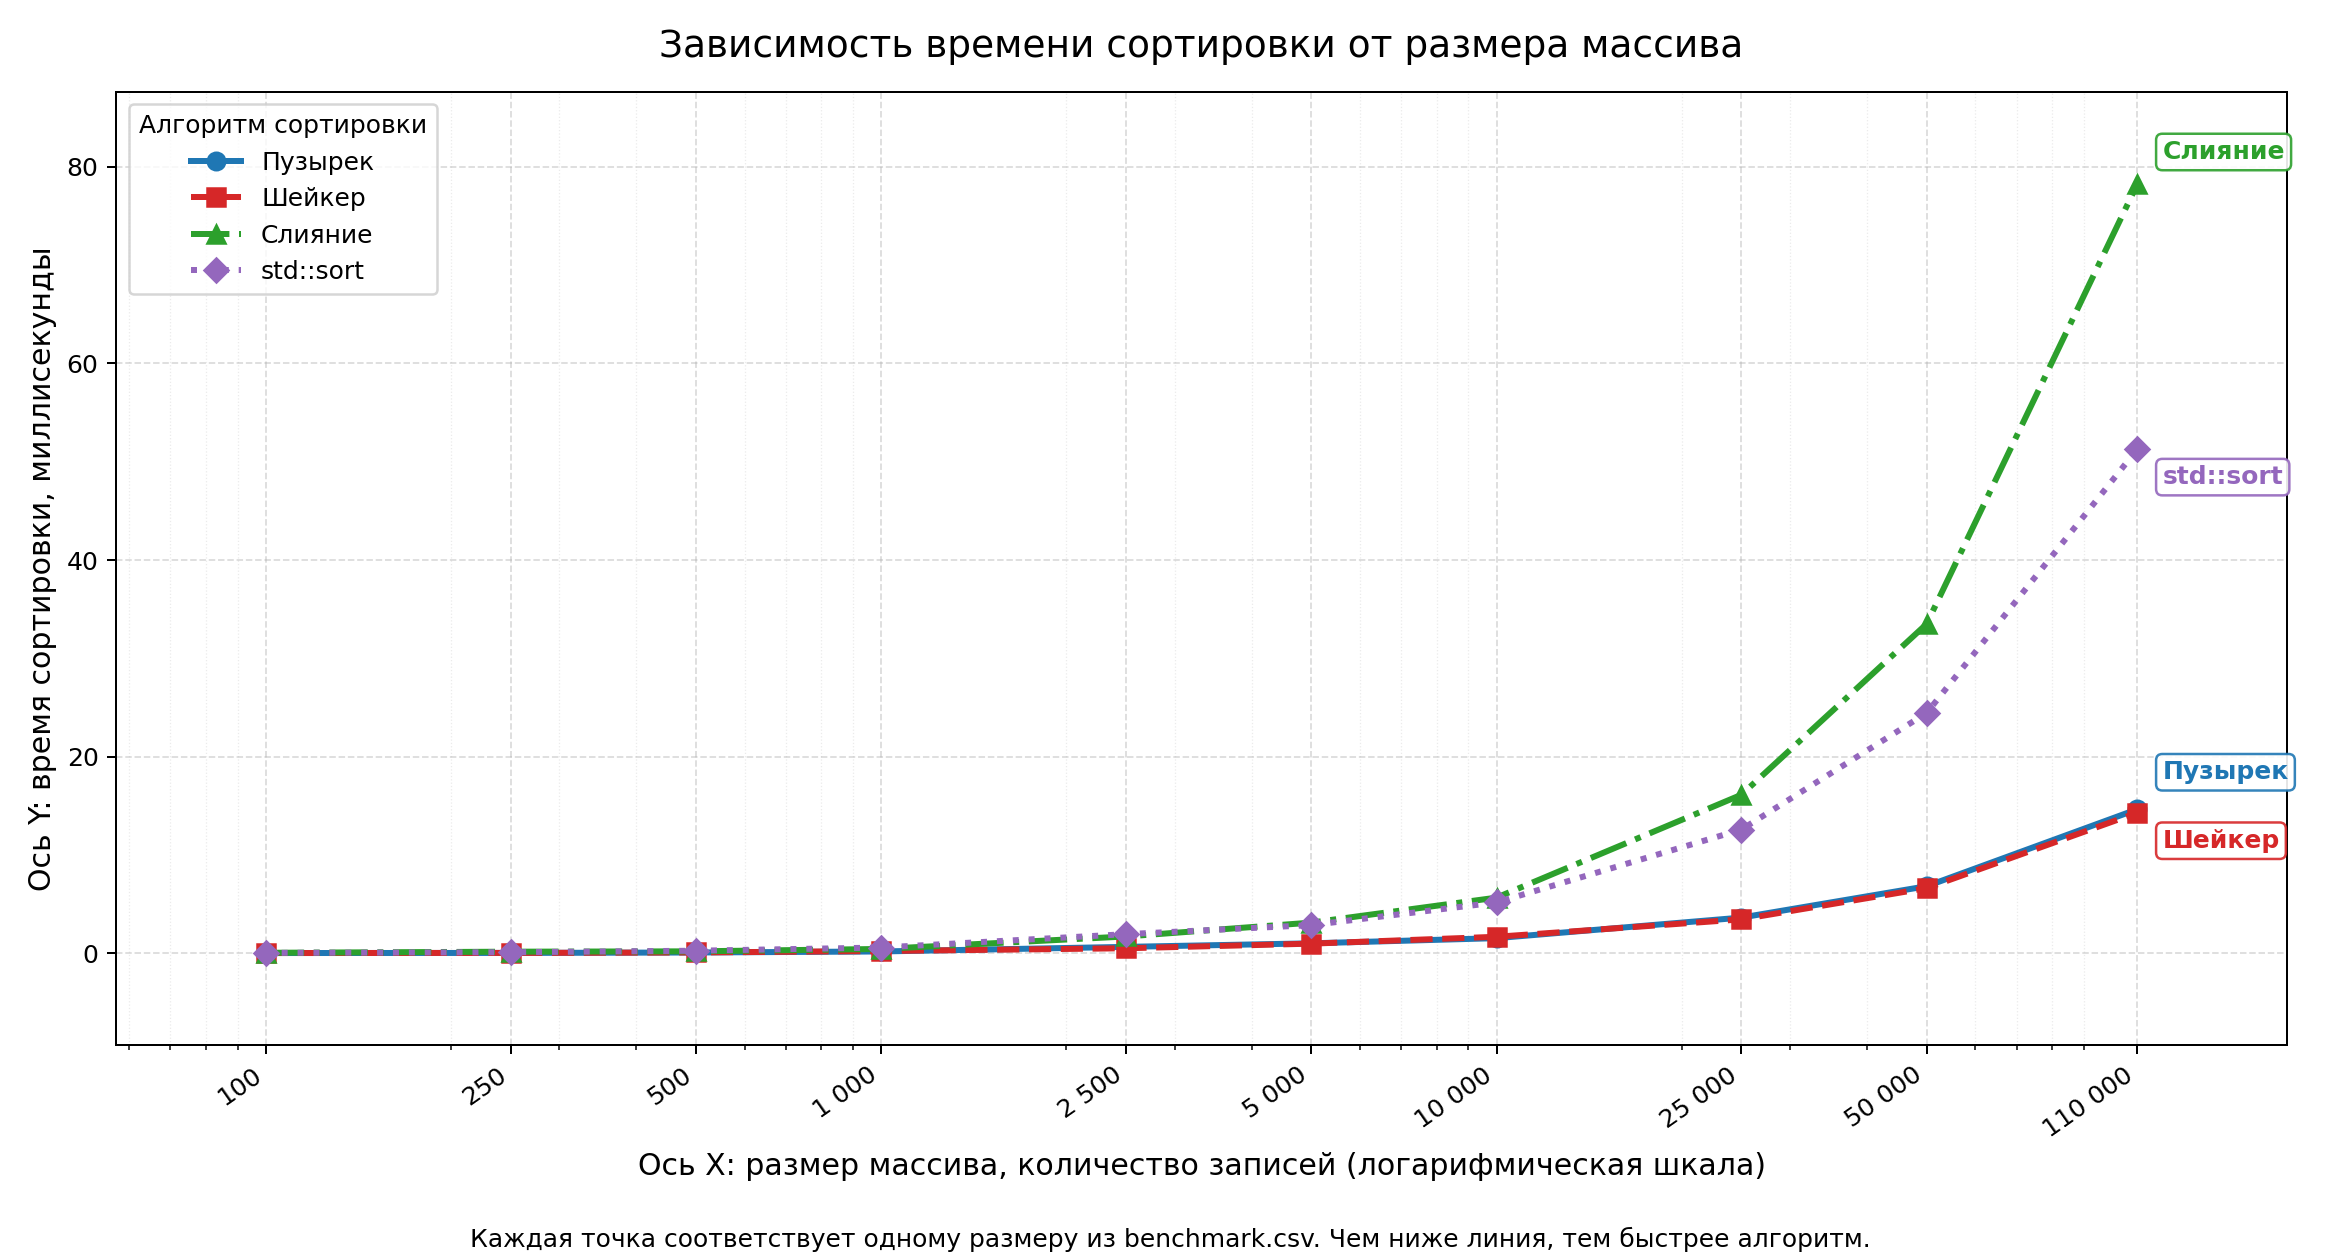
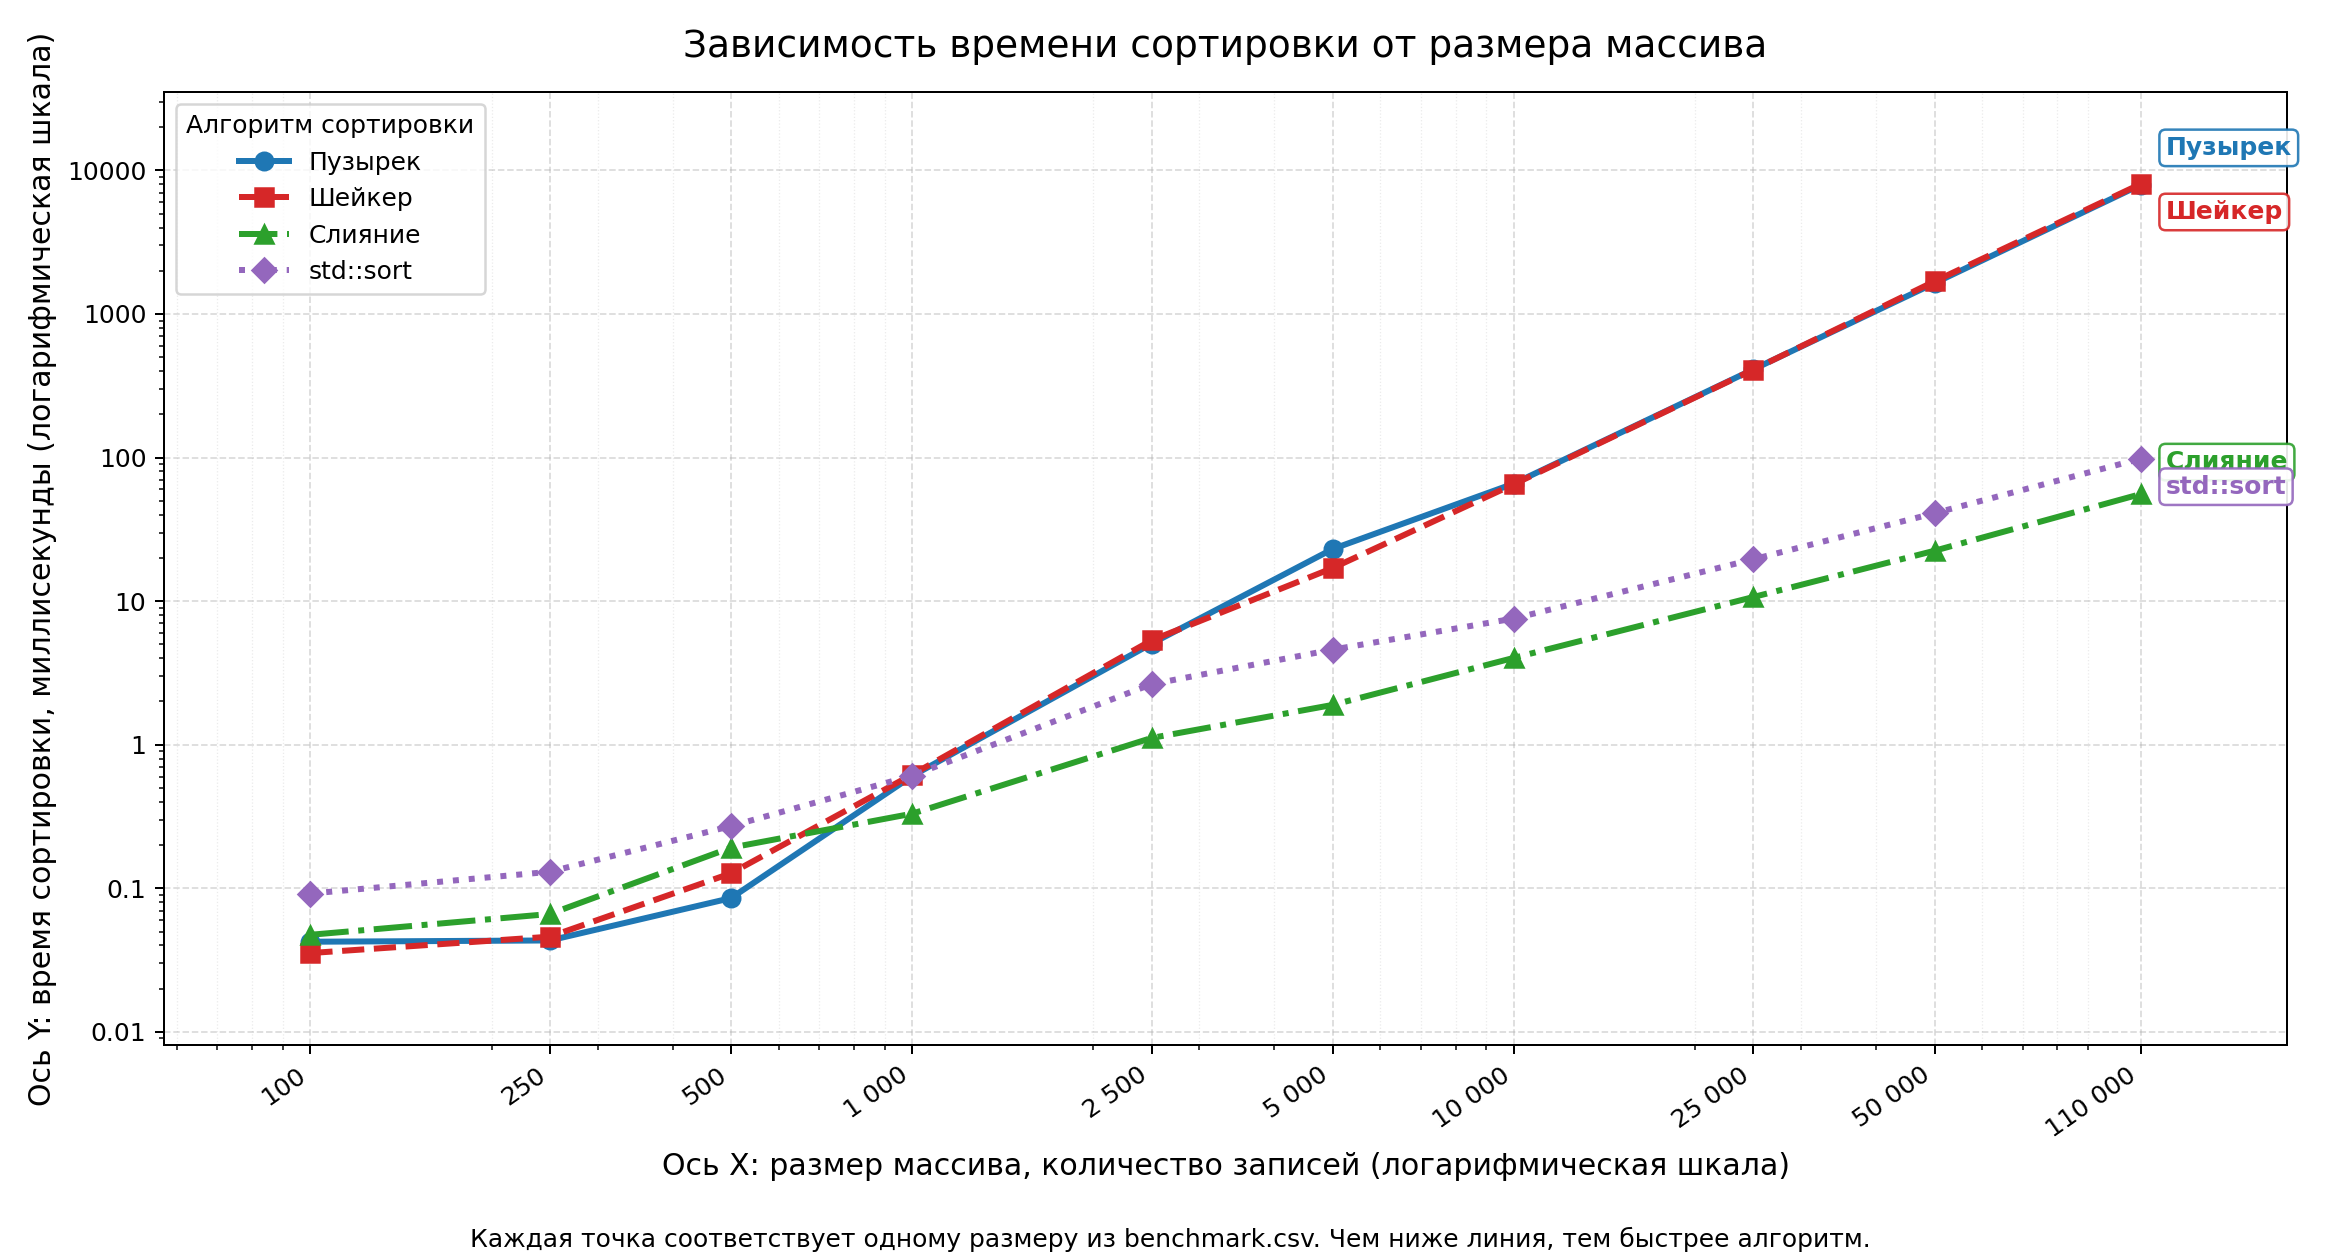
fixes

diff --git a/docs/html/dir_cb32b1f319a2e75f85330d5e0939b50f.html b/docs/html/dir_cb32b1f319a2e75f85330d5e0939b50f.html
@@ -165,8 +165,8 @@ document.addEventListener('DOMContentLoaded',() => { initNavTree('dir_cb32b1f319
 <p><img src="../output/benchmark.png" alt="График времени сортировок" class="inline"/></p>
 <h1 class="doxsection"><a class="anchor" id="autotoc_md8"></a>
 Выводы</h1>
-<p>Сортировка пузырьком и шейкер-сортировка имеют квадратичную сложность в общем случае, но в этой работе для набора до 110000 элементов используются почти отсортированные данные. На таких данных обе простые сортировки завершаются быстро благодаря раннему выходу после прохода без обменов.</p>
-<p>По полученному графику для почти отсортированных массивов лучше всего подходят пузырек и шейкер-сортировка. Для произвольных и случайно перемешанных данных надежнее применять сортировку слиянием или <span class="tt">std::sort</span>, так как они работают за <span class="tt">O(n log n)</span>. Сортировка слиянием стабильна, но требует дополнительную память <span class="tt">O(n)</span>.</p>
+<p>В benchmark используются блочно перемешанные данные: внутри каждого блока элементы идут в обратном порядке, а размер блока растет вместе с размером массива. Такой набор сильнее нагружает пузырек и шейкер-сортировку, поэтому на графике видно, что их время растет быстрее.</p>
+<p>По полученному графику сортировка слиянием и <span class="tt">std::sort</span> лучше масштабируются на больших массивах, так как работают за <span class="tt">O(n log n)</span>. Пузырек и шейкер-сортировка проще и не требуют дополнительной памяти, но на перемешанных данных их квадратичная сложность <span class="tt">O(n^2)</span> быстро становится заметной. Сортировка слиянием стабильна, но требует дополнительную память <span class="tt">O(n)</span>.</p>
 <h1 class="doxsection"><a class="anchor" id="autotoc_md9"></a>
 Документация</h1>
 <p>Исходный код программы находится в репозитории:</p>

diff --git a/scripts/plot_benchmark.py b/scripts/plot_benchmark.py
@@ -103,11 +103,12 @@ def plot_benchmark(series: dict[str, list[tuple[int, float]]], output_path: Path
         )
 
     ax.set_xscale("log")
+    ax.set_yscale("log")
     ax.set_xticks(all_sizes)
     ax.set_xticklabels([format_size(size) for size in all_sizes], rotation=35, ha="right")
     ax.set_title("Зависимость времени сортировки от размера массива", fontsize=15, pad=14)
     ax.set_xlabel("Ось X: размер массива, количество записей (логарифмическая шкала)", fontsize=12)
-    ax.set_ylabel("Ось Y: время сортировки, миллисекунды", fontsize=12)
+    ax.set_ylabel("Ось Y: время сортировки, миллисекунды (логарифмическая шкала)", fontsize=12)
     ax.yaxis.set_major_formatter(FuncFormatter(lambda value, _: f"{value:g}"))
     ax.grid(True, which="major", linestyle="--", linewidth=0.7, alpha=0.45)
     ax.grid(True, which="minor", axis="x", linestyle=":", linewidth=0.5, alpha=0.25)

diff --git a/src/main.cpp b/src/main.cpp
@@ -93,9 +93,12 @@ std::vector<ExportedProduct> generateProducts(std::size_t count) {
         });
     }
 
-    const std::size_t step = std::max<std::size_t>(3, count / 1000);
-    for (std::size_t i = 1; i + 1 < products.size(); i += step) {
-        std::swap(products[i], products[i + 1]);
+    const std::size_t blockSize = std::max<std::size_t>(2, count / 200);
+    for (std::size_t start = 0; start < products.size(); start += blockSize) {
+        const auto first = products.begin() + static_cast<std::ptrdiff_t>(start);
+        const auto last = products.begin()
+                          + static_cast<std::ptrdiff_t>(std::min(start + blockSize, products.size()));
+        std::reverse(first, last);
     }
 
     return products;

diff --git a/report/README.md b/report/README.md
@@ -52,9 +52,9 @@ python3 scripts/plot_benchmark.py
 
 ## Выводы
 
-Сортировка пузырьком и шейкер-сортировка имеют квадратичную сложность в общем случае, но в этой работе для набора до 110000 элементов используются почти отсортированные данные. На таких данных обе простые сортировки завершаются быстро благодаря раннему выходу после прохода без обменов.
+В benchmark используются блочно перемешанные данные: внутри каждого блока элементы идут в обратном порядке, а размер блока растет вместе с размером массива. Такой набор сильнее нагружает пузырек и шейкер-сортировку, поэтому на графике видно, что их время растет быстрее.
 
-По полученному графику для почти отсортированных массивов лучше всего подходят пузырек и шейкер-сортировка. Для произвольных и случайно перемешанных данных надежнее применять сортировку слиянием или `std::sort`, так как они работают за `O(n log n)`. Сортировка слиянием стабильна, но требует дополнительную память `O(n)`.
+По полученному графику сортировка слиянием и `std::sort` лучше масштабируются на больших массивах, так как работают за `O(n log n)`. Пузырек и шейкер-сортировка проще и не требуют дополнительной памяти, но на перемешанных данных их квадратичная сложность `O(n^2)` быстро становится заметной. Сортировка слиянием стабильна, но требует дополнительную память `O(n)`.
 
 ## Документация
 
